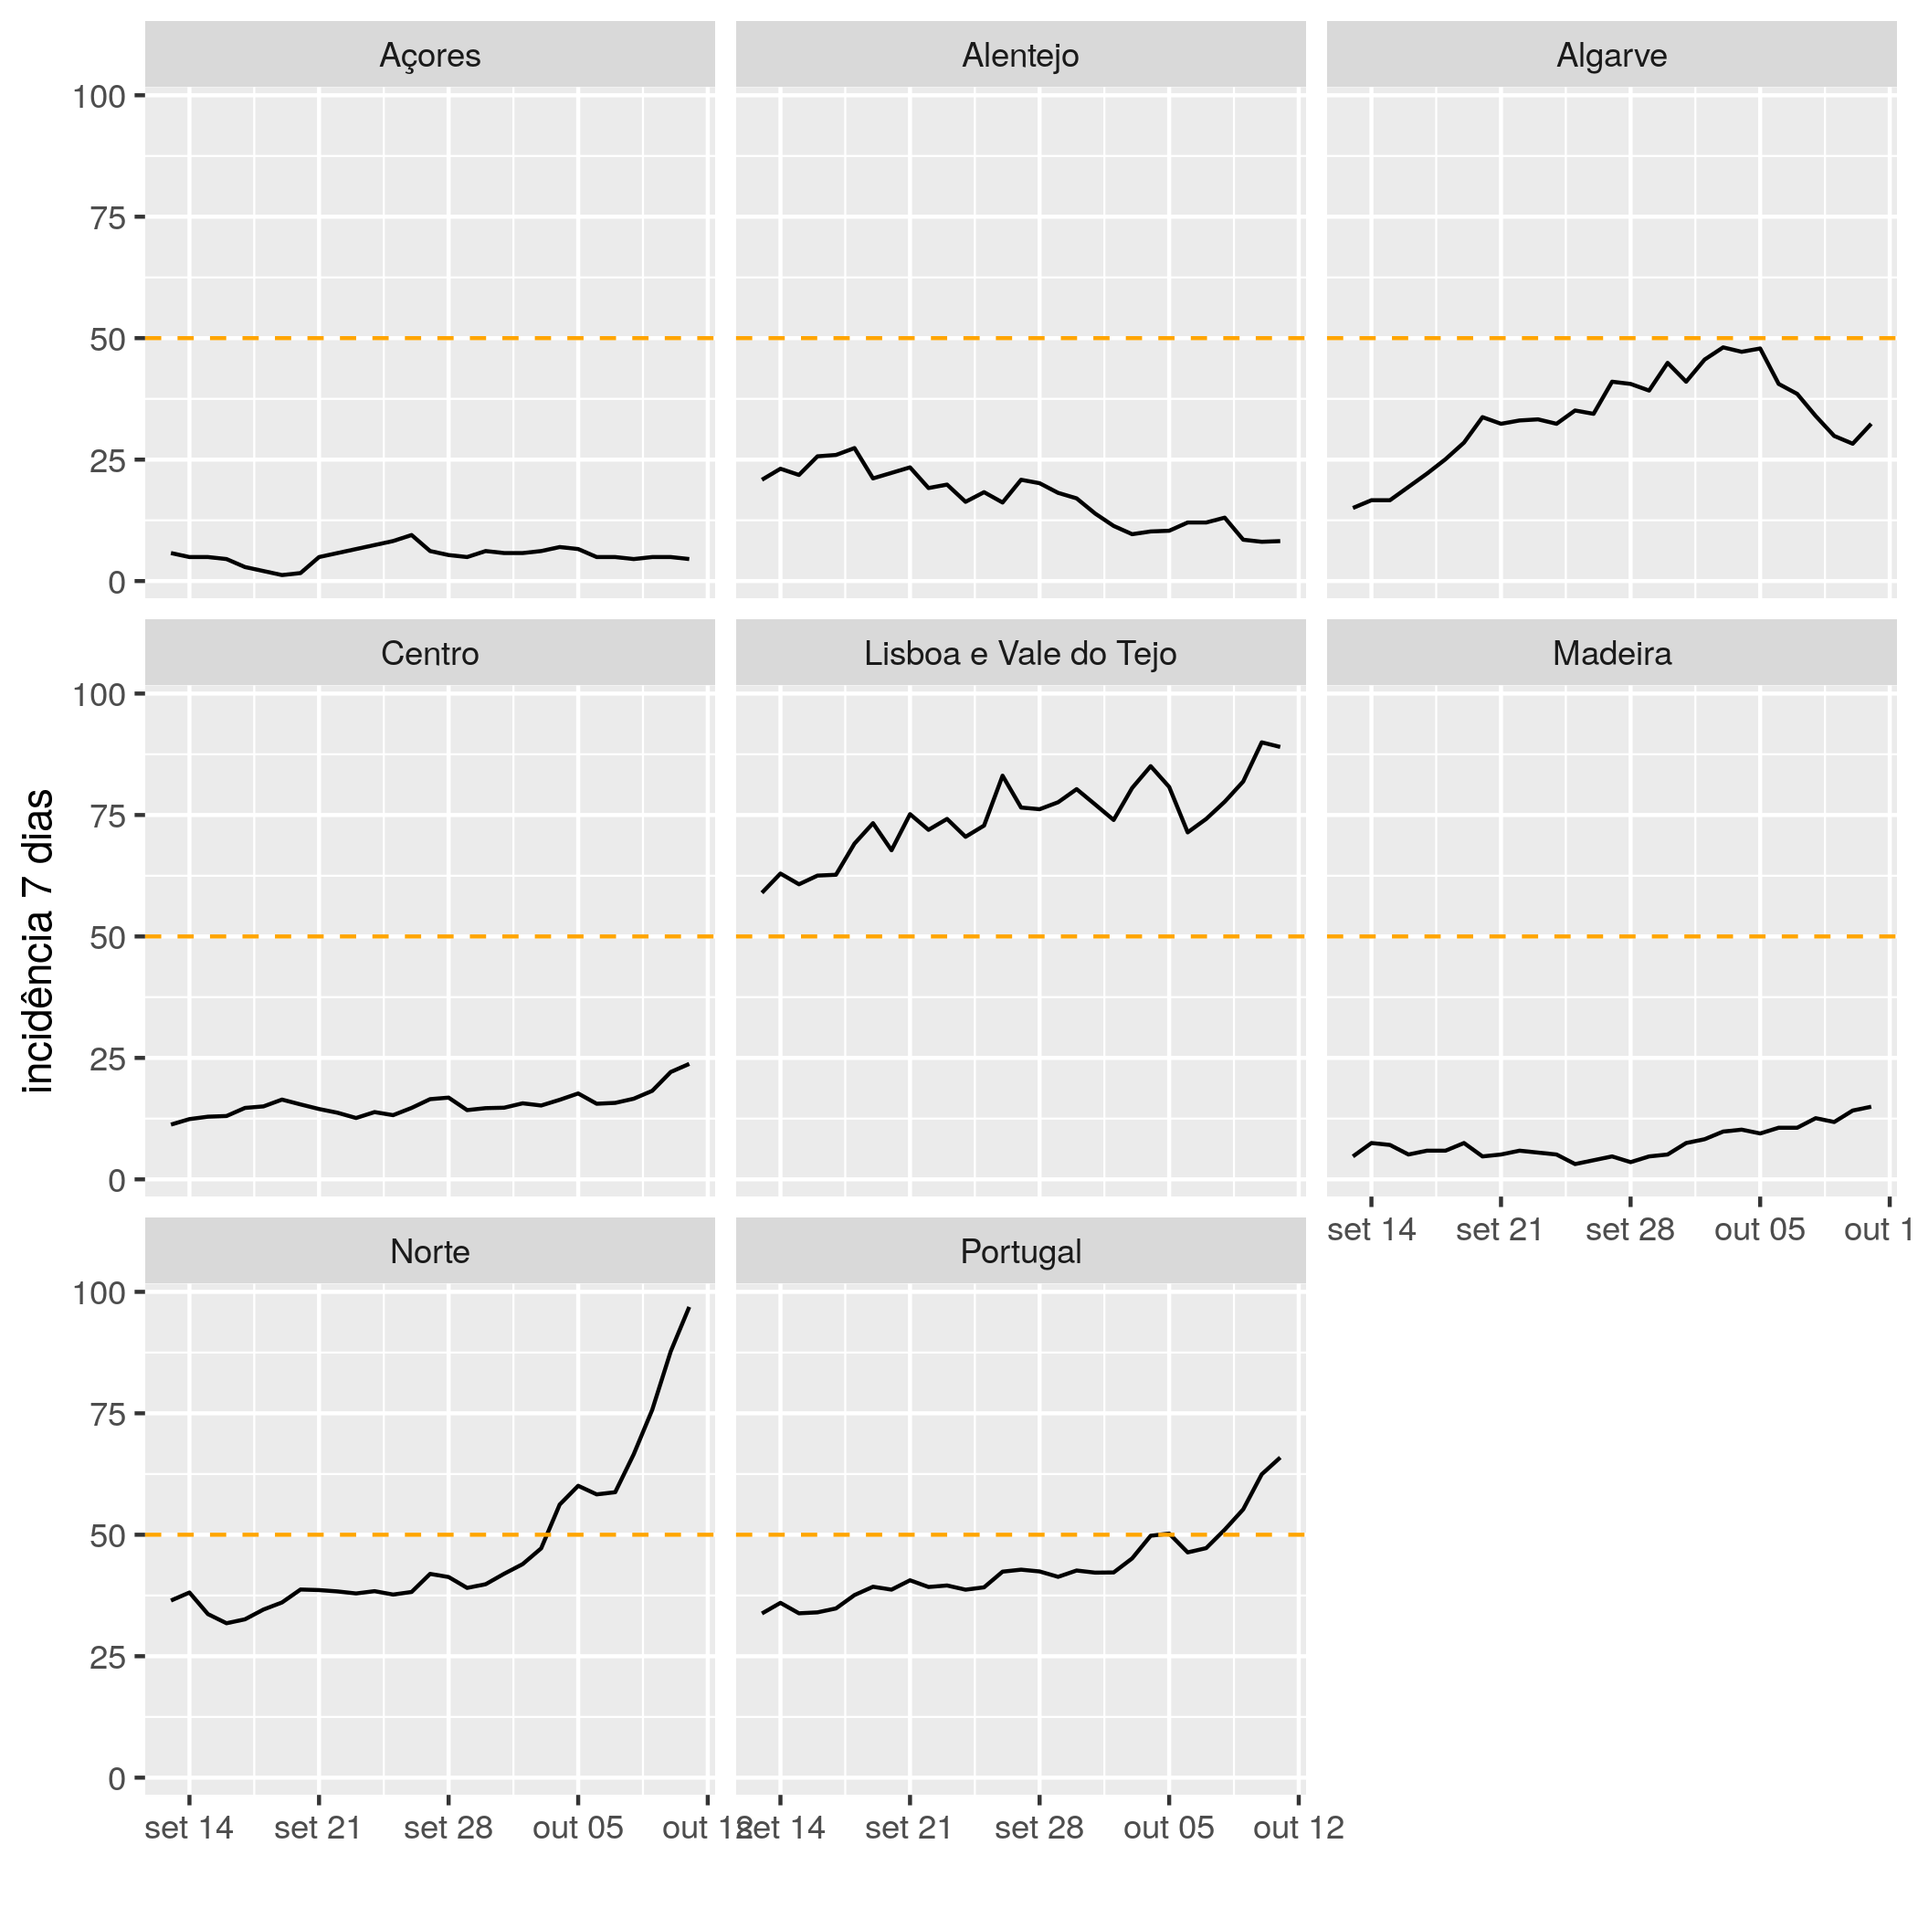
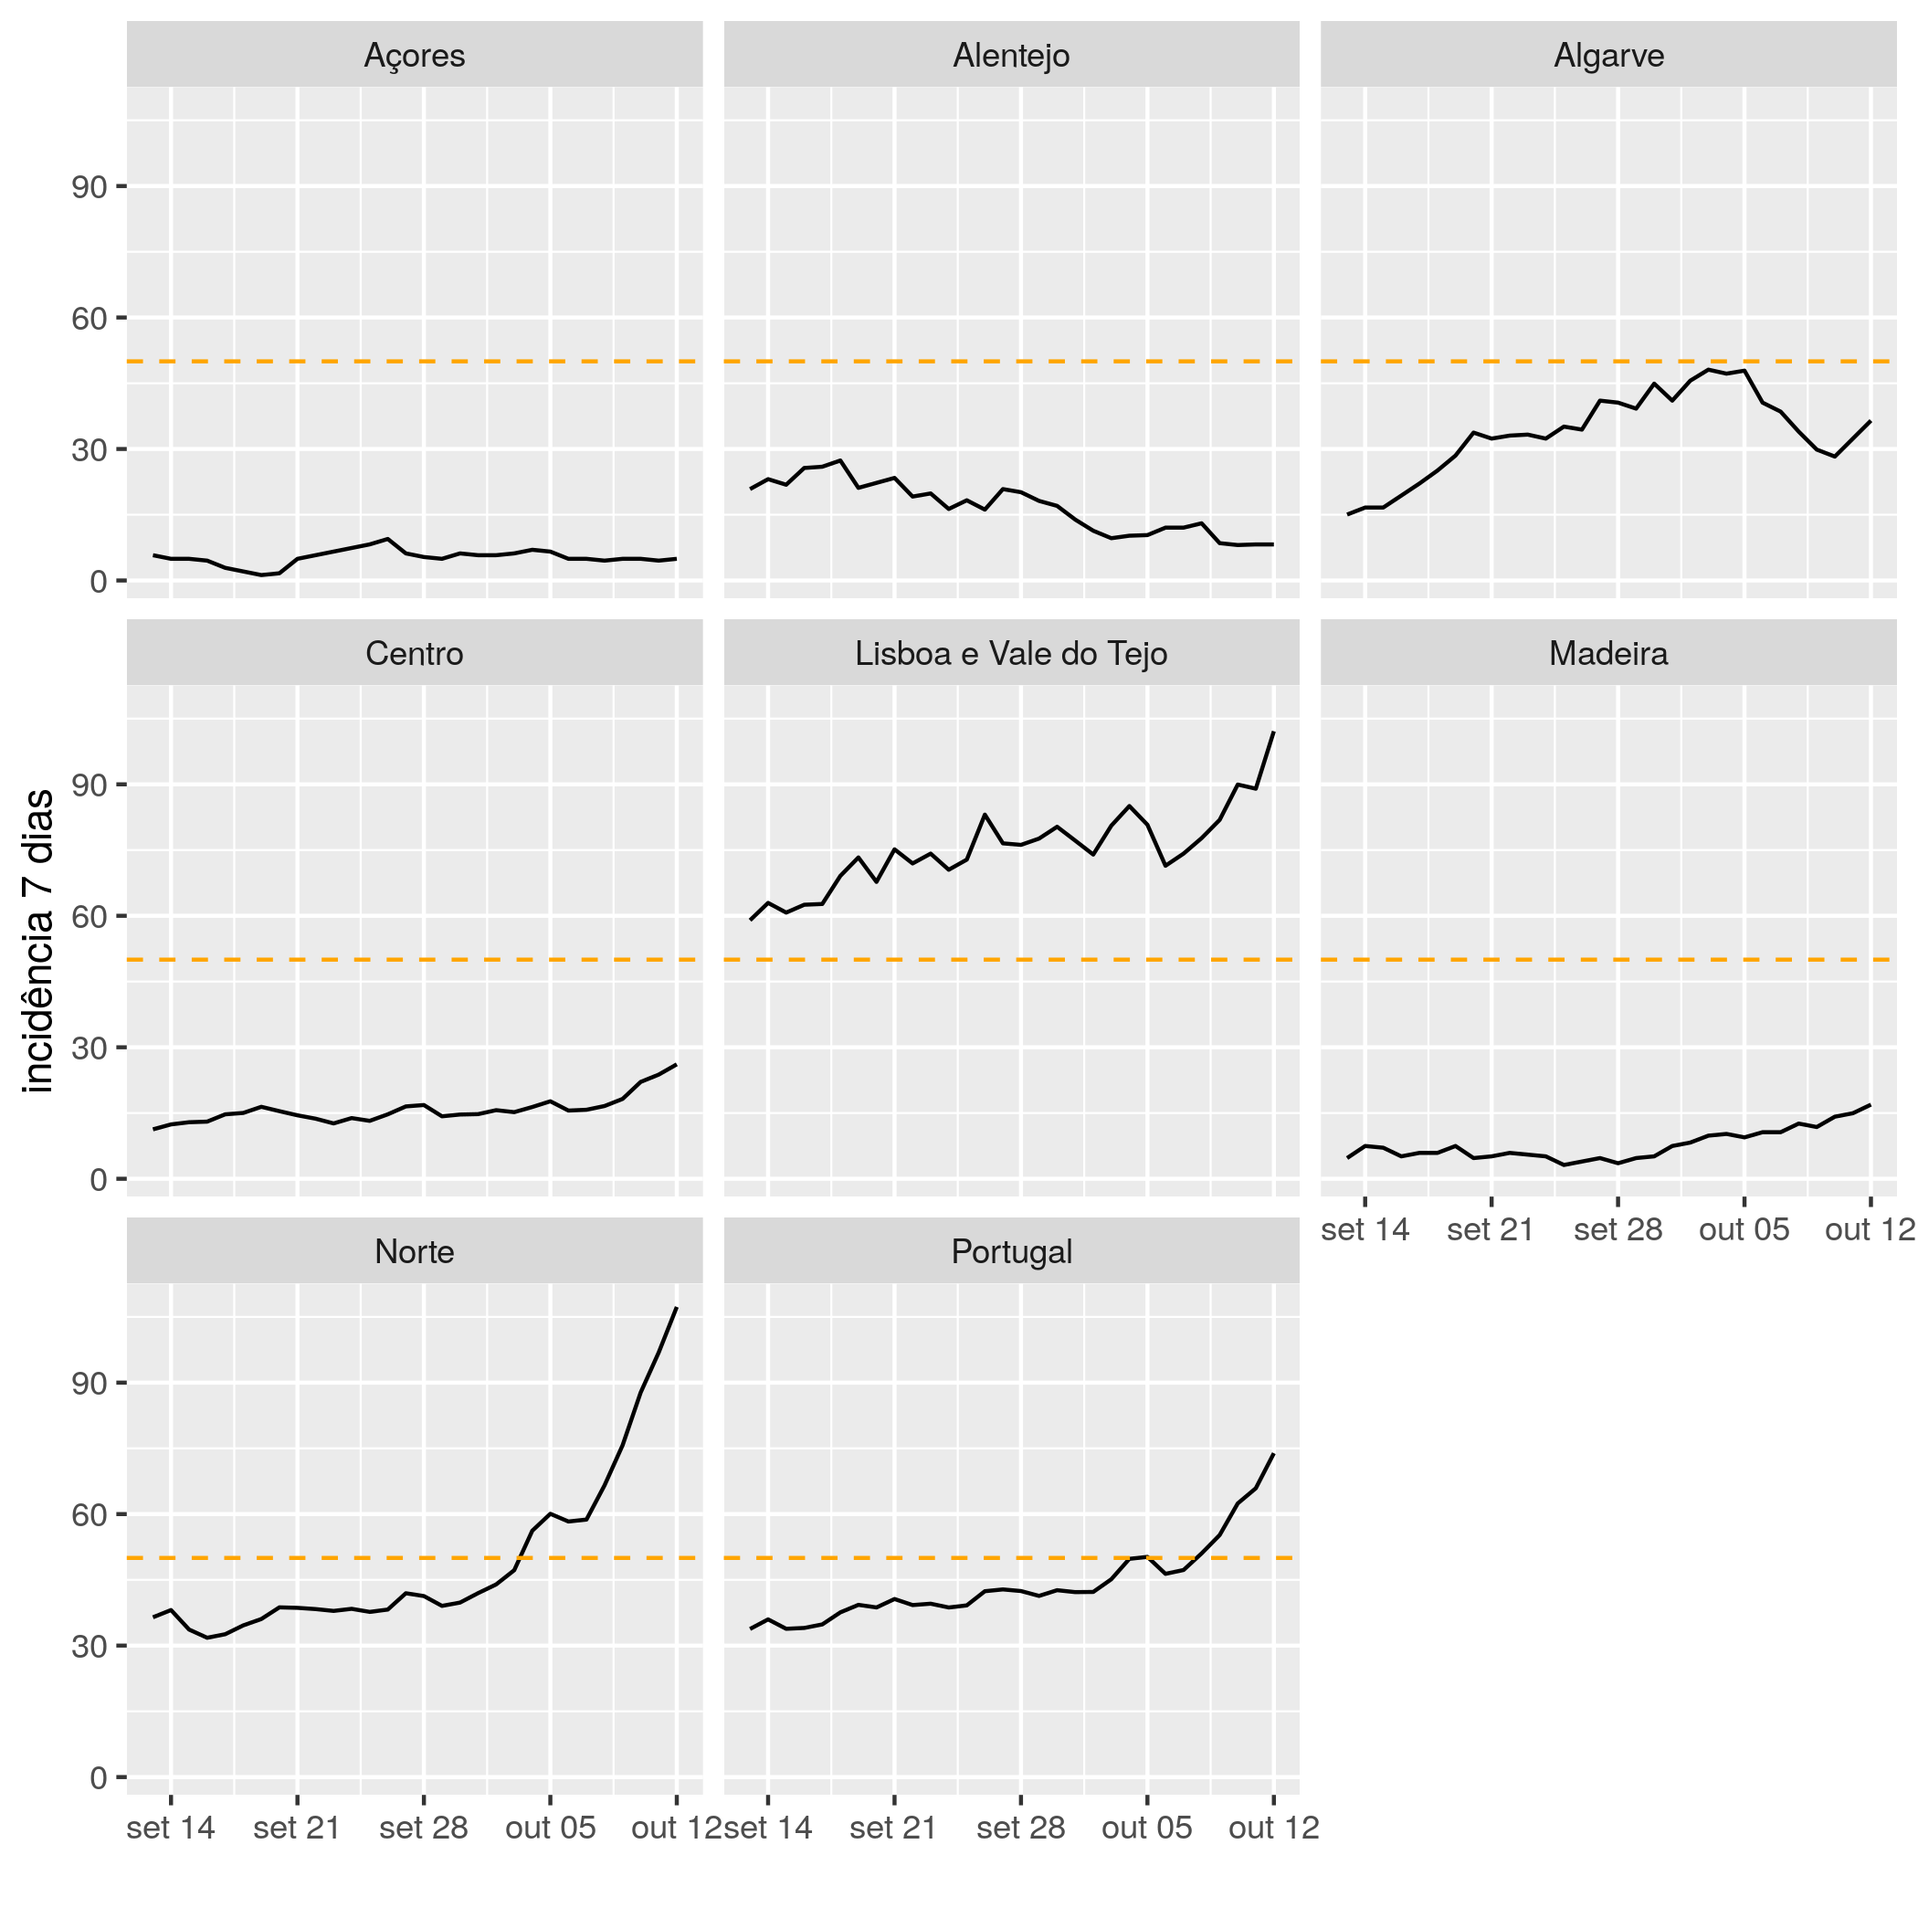
dados segunda feira

diff --git a/README.md b/README.md
@@ -1,7 +1,7 @@
 # Contexto
 A incidência por 100000 habitantes em 7 dias é o valor de referência para decretar regiões de risco pelas autoridades de saúde alemãs (valor charneira é 50, ie LVT já é região de risco). Gráficos atualizados diariamente. Para ajudar quem quer viajar para a Alemanha ou vir passar férias a Portugal.
 
-Dados mais recentes de 2020-10-11.
+Dados mais recentes de 2020-10-12.
 
 # Incidência por 100000 habitantes em 7 dias
 ## Últimos 30 dias
